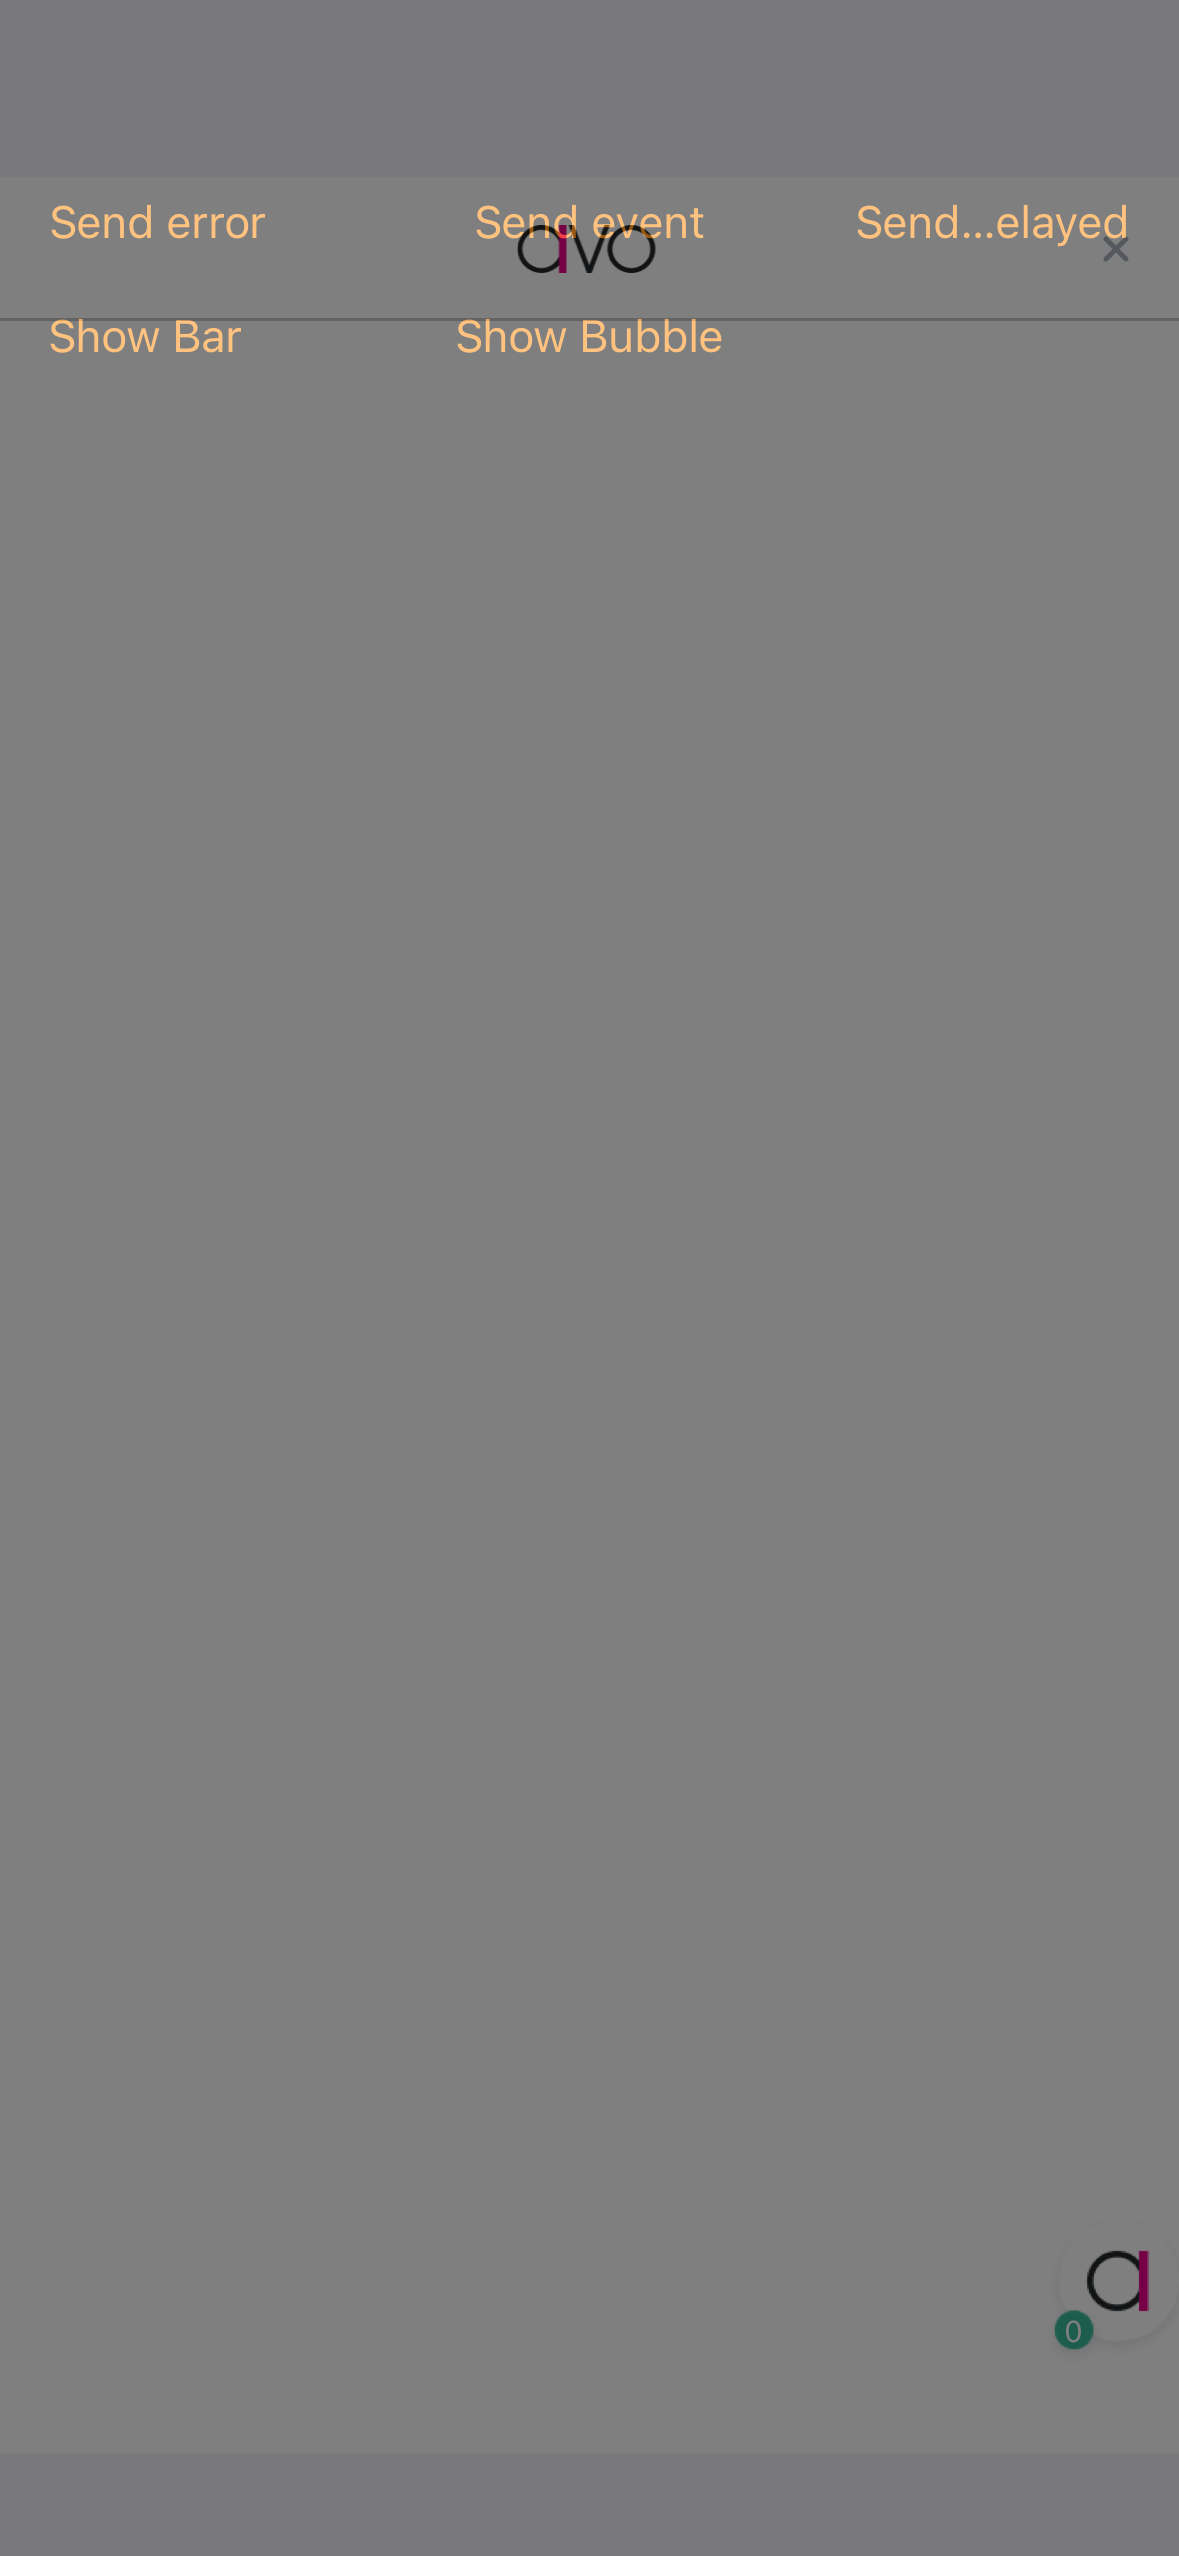
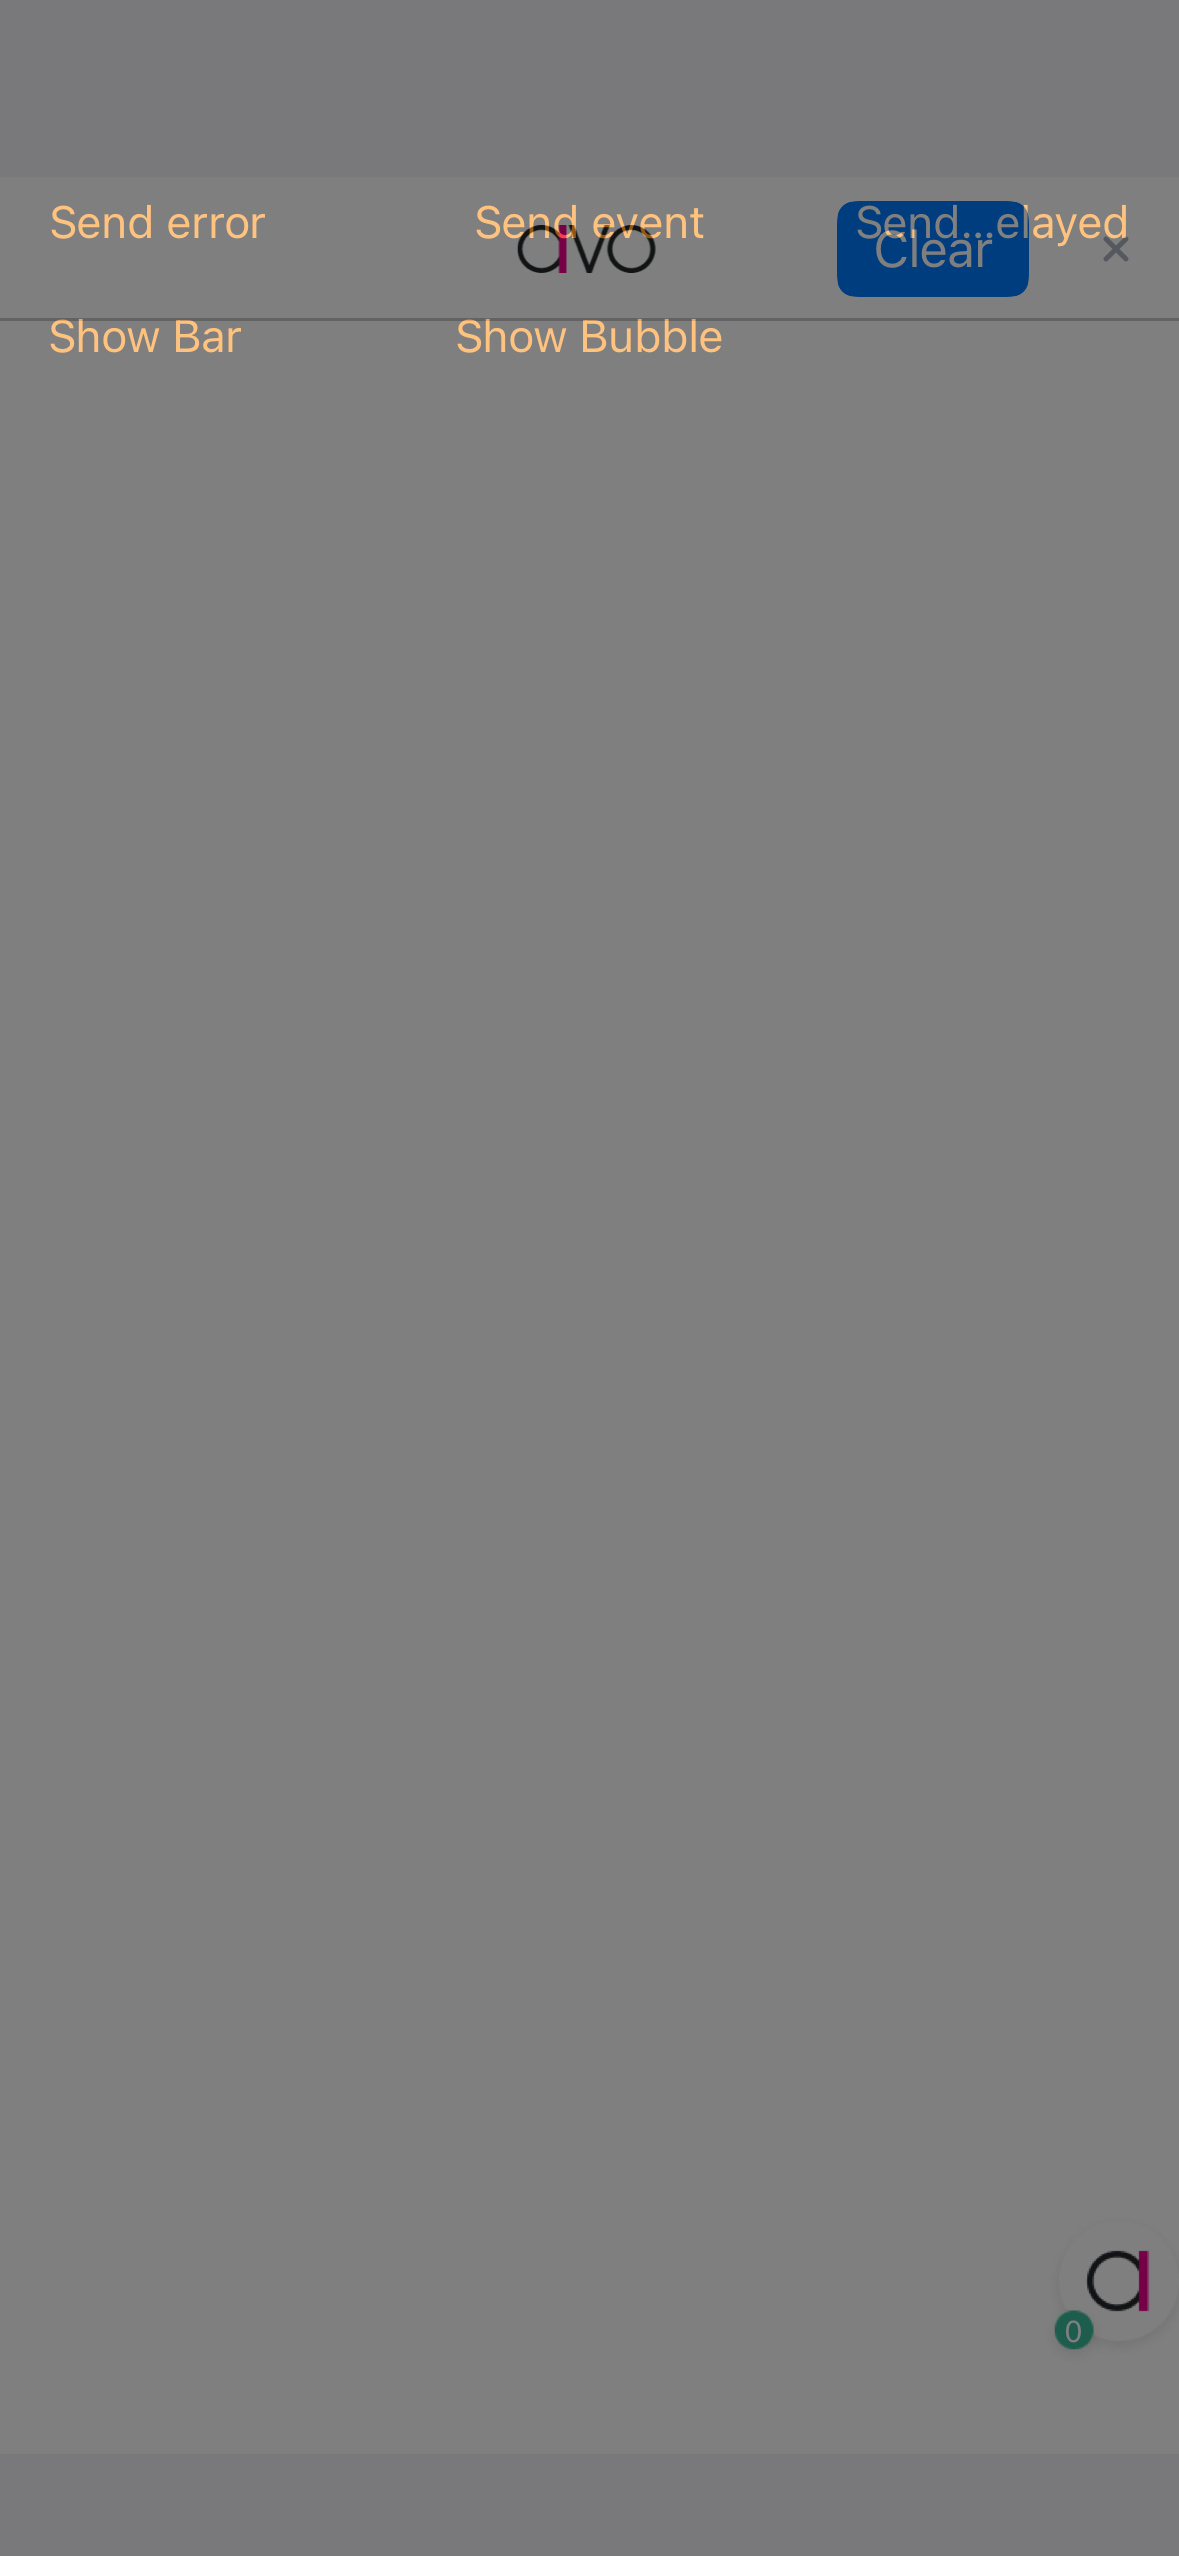
Add clear button and functionality

Changed region(s): [[0.7023, 0.0618, 0.8855, 0.1236]]

diff --git a/Example/Tests/testEventListScreen.m b/Example/Tests/testEventListScreen.m
@@ -19,6 +19,7 @@
 
 @interface EventsListScreenViewController(Private)
 - (void) dismissSelf;
+- (IBAction)onClearButtonClick:(id)sender;
 @end
 
 @interface SandboxViewController(Private)
@@ -71,8 +72,9 @@ SpecBegin(AvoEventListScreen)
 
             if(recordReference == true){
                 expect(window).will.recordSnapshotNamed(@"render-eventlist-bubble");
+            } else {
+                expect(window).will.haveValidSnapshotNamedWithTolerance(@"render-eventlist-bubble", 0.02);
             }
-            expect(window).will.haveValidSnapshotNamedWithTolerance(@"render-eventlist-bubble", 0.02);
         });
 
         it(@"Renders correctly when opened - bar", ^{
@@ -81,8 +83,9 @@ SpecBegin(AvoEventListScreen)
 
             if(recordReference == true){
                 expect(window).will.recordSnapshotNamed(@"render-eventlist-bar");
+            } else {
+                expect(window).will.haveValidSnapshotNamedWithTolerance(@"render-eventlist-bar", 0.02);
             }
-            expect(window).will.haveValidSnapshotNamedWithTolerance(@"render-eventlist-bar", 0.02);
         });
 
         it(@"Toggle opens and closes event list", ^{
@@ -97,8 +100,9 @@ SpecBegin(AvoEventListScreen)
             [eventsListViewController dismissSelf];
             if(recordReference == true){
                 expect(window).will.recordSnapshotNamed(@"render-eventlist-closed");
+            } else {
+                expect(window).will.haveValidSnapshotNamedWithTolerance(@"render-eventlist-closed", 0.1);
             }
-            expect(window).will.haveValidSnapshotNamedWithTolerance(@"render-eventlist-closed", 0.1);
         });
         
         it(@"Test posting event works", ^{
@@ -121,6 +125,38 @@ SpecBegin(AvoEventListScreen)
             }
             else {
                 expect(window).will.recordSnapshotNamed(@"render-eventlist-postevent");
+            }
+        });
+        
+        it(@"Test clear events", ^{
+            [vcontroller shoBarDebugger:self];
+            [ac openEventsListScreen];
+
+            NSMutableArray * props = [NSMutableArray new];
+
+            [props addObject:[[DebuggerProp alloc] initWithId:@"id0" withName:@"id0 event" withValue:@"value 0"]];
+            [props addObject:[[DebuggerProp alloc] initWithId:@"id1" withName:@"id1 event" withValue:@"value 1"]];
+
+            NSMutableArray * errors = [NSMutableArray new];
+
+            [errors addObject:[[DebuggerPropError alloc] initWithPropertyId:@"id0" withMessage:@"error in event id0"]];
+
+            [ac publishEvent:@"Test IOS Debugger Event" withTimestamp:[NSNumber numberWithDouble:[[NSDate date] timeIntervalSince1970]]
+                withProperties:props withErrors:errors];
+            
+            [[NSRunLoop mainRunLoop] runUntilDate:[NSDate dateWithTimeIntervalSinceNow:0.01]];
+            
+            NSMutableArray * events = [AnalyticsDebugger events];
+            assert(events.count != 0);
+            
+            [eventsListViewController onClearButtonClick:@YES];
+
+            assert([AnalyticsDebugger events].count == 0);
+            if(recordReference == false){
+                expect(window).will.haveValidSnapshotNamedWithTolerance(@"render-eventlist-cleared", 0.1);
+            }
+            else {
+                expect(window).will.recordSnapshotNamed(@"render-eventlist-cleared");
             }
         });
     });

diff --git a/IosAnalyticsDebugger/Classes/eventslistscreen/EventsListScreenViewController.m b/IosAnalyticsDebugger/Classes/eventslistscreen/EventsListScreenViewController.m
@@ -23,6 +23,10 @@
 @end
 
 @implementation EventsListScreenViewController
+- (IBAction)onClearButtonClick:(id)sender {
+    [AnalyticsDebugger.events removeAllObjects];
+    [self.eventsTableView reloadData];
+}
 
 - (void)viewDidLoad {
     [super viewDidLoad];
